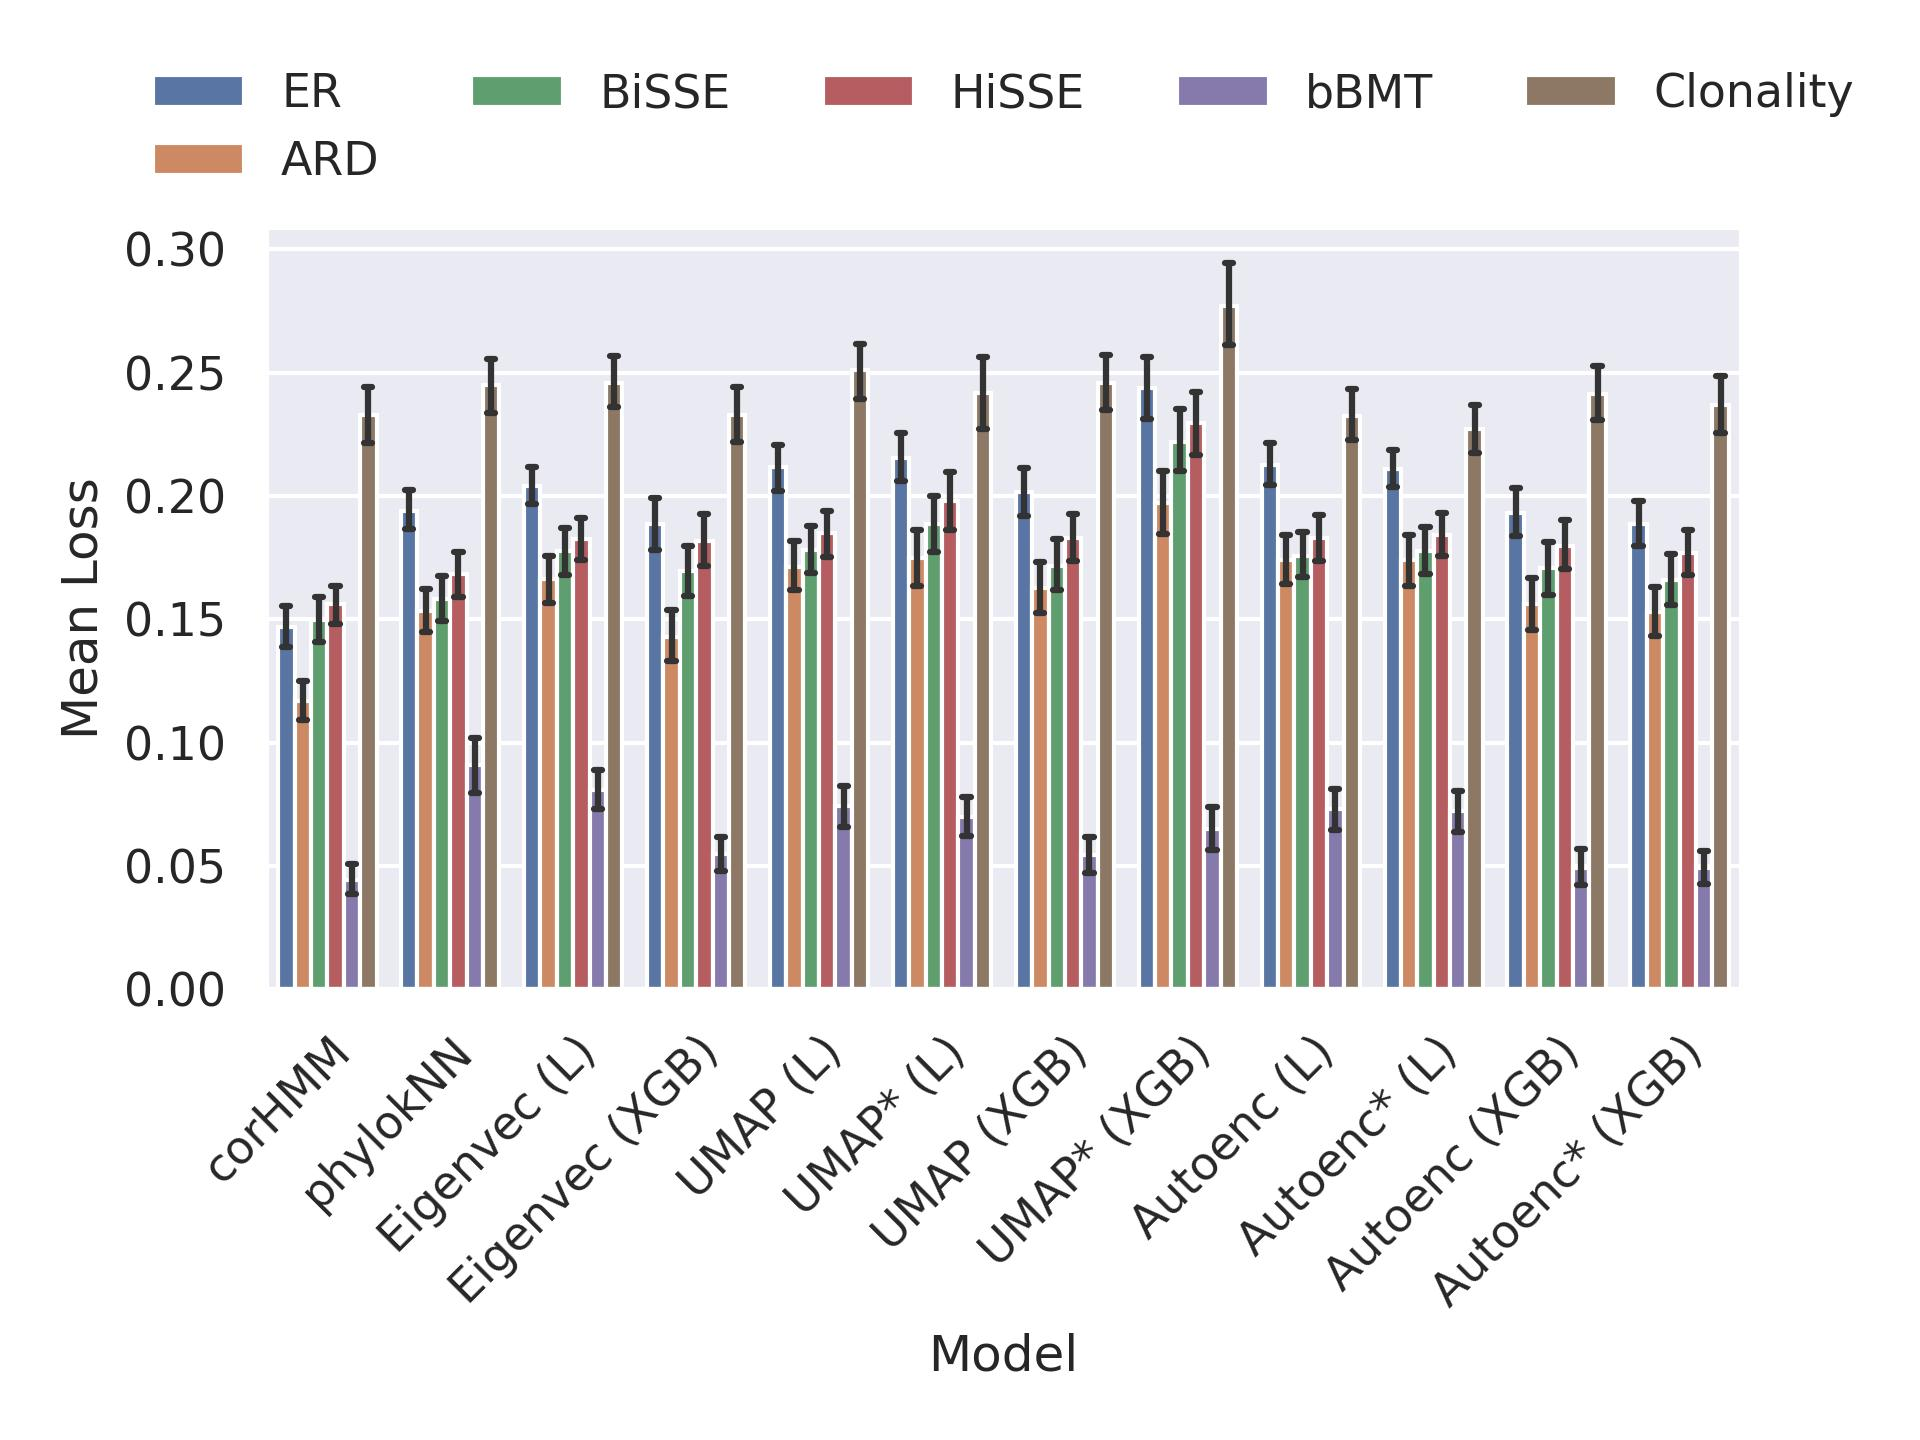
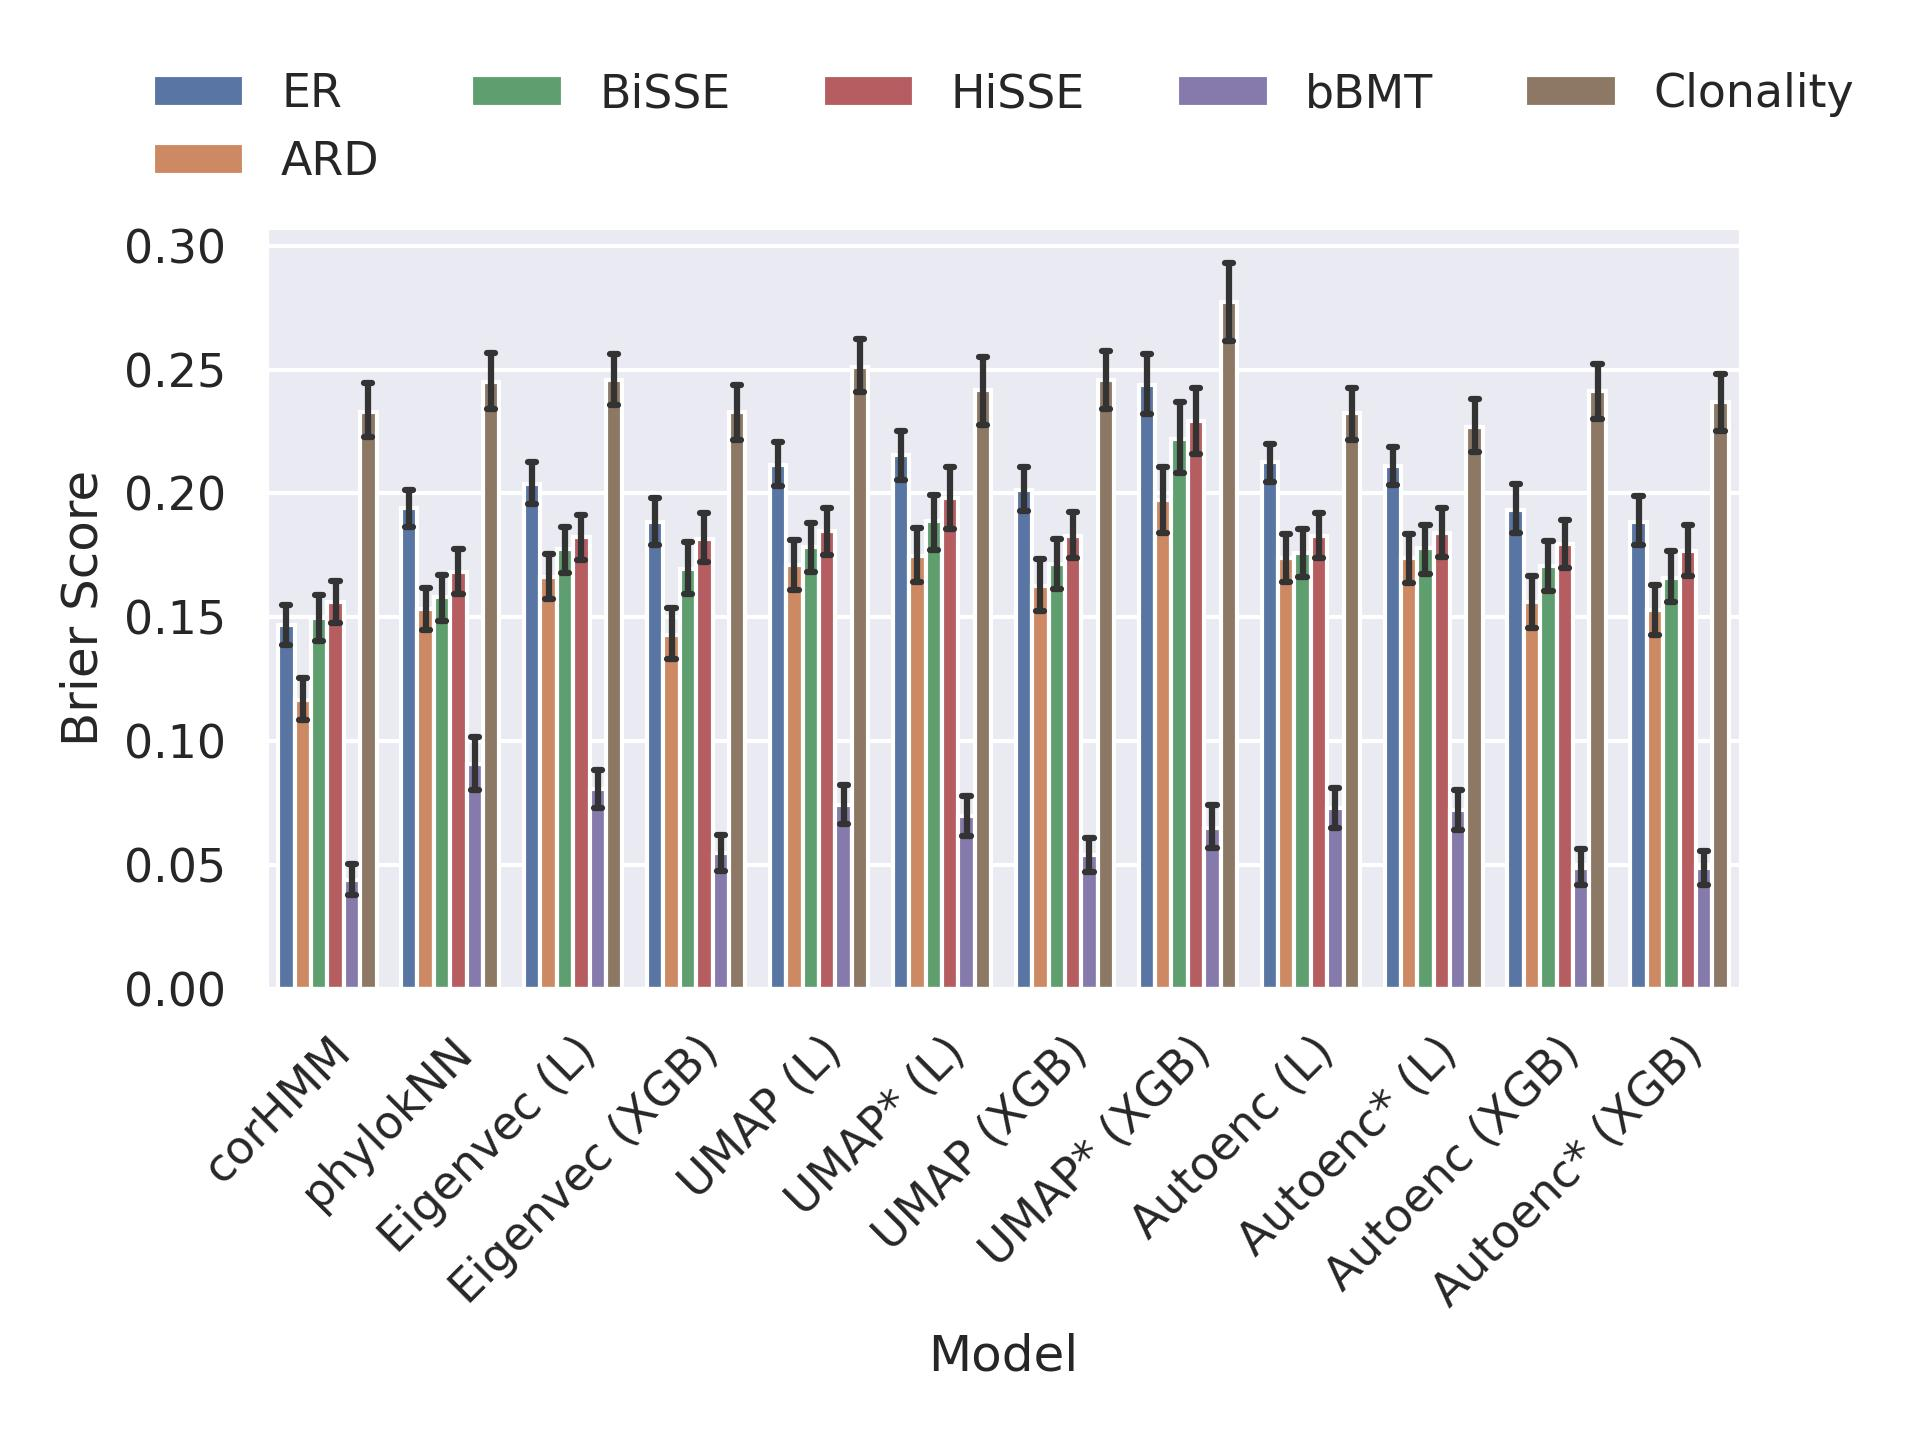
Replace "Mean Loss" with "Brier Score" for binary models and "Mean Absolute Error" for continuous models across evaluation scripts and outputs.

Changed region(s): [[0.0312, 0.3125, 0.125, 0.5312], [0.0625, 0.25, 0.125, 0.2812], [0.0625, 0.1562, 0.125, 0.1875]]

diff --git a/analysis/evaluation/compare_types.py b/analysis/evaluation/compare_types.py
@@ -21,7 +21,7 @@ def plot_binary_and_continuous_cases(bin_df, cont_df, group, out_dir):
     err_kws = {"color": ".2", "linewidth": 1.5}
     ## do a useful plot
     ## Turn  Model columns into useful row values
-    p_df = pd.melt(bin_df, id_vars=group, value_vars=bin_model_names, var_name='Model', value_name='Mean Loss')
+    p_df = pd.melt(bin_df, id_vars=group, value_vars=bin_model_names, var_name='Model', value_name='Brier Score')
     # p_df['Ev Model'] = p_df['Ev Model'].map(
     #     {'simulations': 'ARD/SYM/ER', 'Extinct_BMT': 'BMT †', 'real_data': 'Clonality'}).fillna(p_df['Ev Model'])
     p_df['Model'] = p_df['Model'].map(rename_models_and_ev_models).fillna(p_df['Model'])
@@ -29,7 +29,7 @@ def plot_binary_and_continuous_cases(bin_df, cont_df, group, out_dir):
         ev_order = simulation_types['binary']
         p_df = p_df.sort_values(by="Ev Model", key=lambda column: column.map(lambda e: ev_order.index(e)))
 
-    g = sns.barplot(p_df, x='Model', y='Mean Loss', hue=group, order=binary_model_order,
+    g = sns.barplot(p_df, x='Model', y='Brier Score', hue=group, order=binary_model_order,
                     capsize=.4,
                     err_kws=err_kws)
     g.set_xticklabels(g.get_xticklabels(), rotation=45, ha='right', rotation_mode='anchor')
@@ -44,7 +44,7 @@ def plot_binary_and_continuous_cases(bin_df, cont_df, group, out_dir):
     if group == 'Ev Model':
         # For readability don't plot semisupervised versions here
         p_df = p_df.sort_values(by="Model", key=lambda column: column.map(lambda e: binary_model_order.index(e)))
-        g = sns.barplot(p_df[~p_df['Model'].str.contains('*', regex=False)], x=group, y='Mean Loss', hue='Model',
+        g = sns.barplot(p_df[~p_df['Model'].str.contains('*', regex=False)], x=group, y='Brier Score', hue='Model',
                         order=ev_order, capsize=.4,
                         err_kws=err_kws, )
         g.set_xticklabels(g.get_xticklabels(), rotation=45, ha='right', rotation_mode='anchor')
@@ -57,14 +57,14 @@ def plot_binary_and_continuous_cases(bin_df, cont_df, group, out_dir):
         plt.close()
 
     ## do a useful plot
-    p_df = pd.melt(cont_df, id_vars=group, value_vars=cont_model_names, var_name='Model', value_name='Mean Loss')
+    p_df = pd.melt(cont_df, id_vars=group, value_vars=cont_model_names, var_name='Model', value_name='Mean Absolute Error')
     # p_df['Ev Model'] = p_df['Ev Model'].map(
     #     {'simulations': 'BM/OU', 'Extinct_BMT': 'BMT †', 'real_data': 'Seed Mass'}).fillna(p_df['Ev Model'])
     p_df['Model'] = p_df['Model'].map(rename_models_and_ev_models).fillna(p_df['Model'])
     if group == 'Ev Model':
         ev_order = simulation_types['continuous']
         p_df = p_df.sort_values(by="Ev Model", key=lambda column: column.map(lambda e: ev_order.index(e)))
-    g = sns.barplot(p_df, x='Model', y='Mean Loss', hue=group, order=continuous_model_order,
+    g = sns.barplot(p_df, x='Model', y='Mean Absolute Error', hue=group, order=continuous_model_order,
                     capsize=.4,
                     err_kws=err_kws,
                     )
@@ -80,7 +80,7 @@ def plot_binary_and_continuous_cases(bin_df, cont_df, group, out_dir):
 
     if group == 'Ev Model':
         p_df = p_df.sort_values(by="Model", key=lambda column: column.map(lambda e: continuous_model_order.index(e)))
-        g = sns.barplot(p_df, x='Ev Model', y='Mean Loss', hue='Model', order=ev_order,
+        g = sns.barplot(p_df, x='Ev Model', y='Mean Absolute Error', hue='Model', order=ev_order,
                         capsize=.4,
                         err_kws=err_kws,
                         )

diff --git a/analysis/evaluation/compile_prediction_scores.py b/analysis/evaluation/compile_prediction_scores.py
@@ -204,18 +204,18 @@ def read_all_results(output_too=False):
         continuous_df.describe(include='all').to_csv(os.path.join('compiled_score_outputs', 'continuous_results_summary.csv'))
         sns.set_theme()
         err_kws = {"color": ".2", "linewidth": 1.5}
-        p_df = pd.melt(binary_df, value_vars=bin_model_names, var_name='Model', value_name='Mean Loss')
+        p_df = pd.melt(binary_df, value_vars=bin_model_names, var_name='Model', value_name='Brier Score')
         p_df['Model'] = p_df['Model'].map(rename_models_and_ev_models).fillna(p_df['Model'])
-        g = sns.barplot(p_df, x='Model', y='Mean Loss', order=binary_model_order,
+        g = sns.barplot(p_df, x='Model', y='Brier Score', order=binary_model_order,
                         capsize=.4, err_kws=err_kws)
         g.set_xticklabels(g.get_xticklabels(), rotation=45, ha='right', rotation_mode='anchor')
         plt.tight_layout()
         plt.savefig(os.path.join('compiled_score_outputs', 'binary_means.jpg'), dpi=300)
         plt.close()
 
-        p_df = pd.melt(continuous_df, value_vars=cont_model_names, var_name='Model', value_name='Mean Loss')
+        p_df = pd.melt(continuous_df, value_vars=cont_model_names, var_name='Model', value_name='Mean Absolute Error')
         p_df['Model'] = p_df['Model'].map(rename_models_and_ev_models).fillna(p_df['Model'])
-        g = sns.barplot(p_df, x='Model', y='Mean Loss', order=continuous_model_order,
+        g = sns.barplot(p_df, x='Model', y='Mean Absolute Error', order=continuous_model_order,
                         capsize=.4,
                         err_kws=err_kws,
                         )
